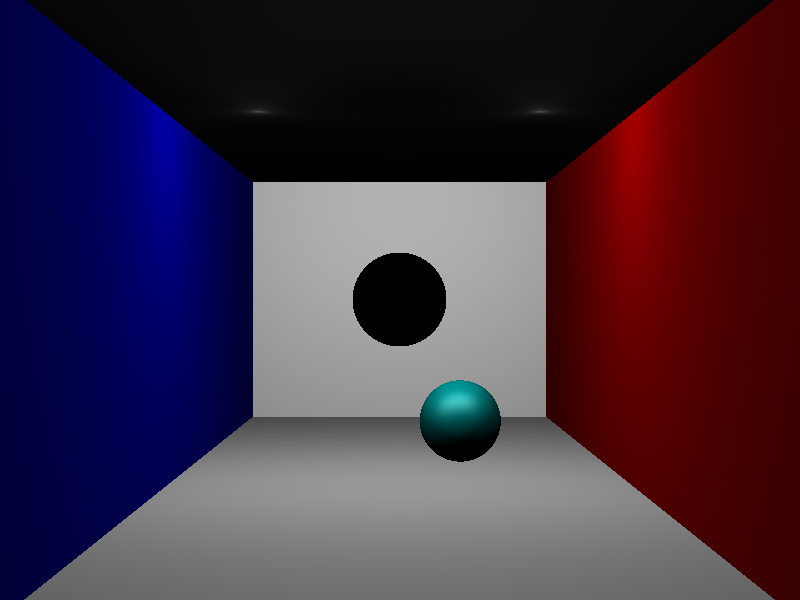
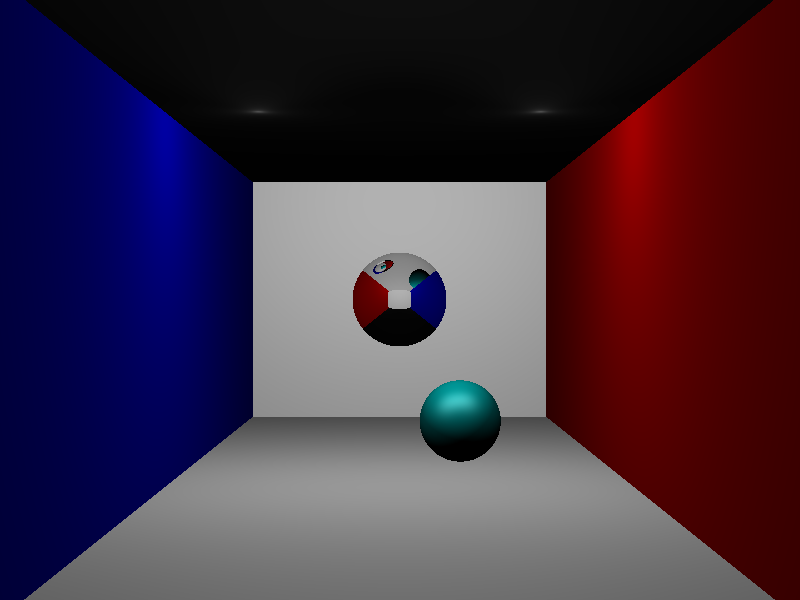
nochmal Refraction

Changed region(s): [[0.4375, 0.42, 0.5625, 0.54]]

diff --git a/VCG_Raytracer/src/raytracer/Raytracer.java b/VCG_Raytracer/src/raytracer/Raytracer.java
@@ -120,9 +120,9 @@ public class Raytracer {
                 shape = intersectLoop(primaryRay);
 
                 if(shape.material.transparent > 0){
-                    Ray refracRay = intersec.calculateRefractionRay((1.0f/1.5f), primaryRay);
+                    Ray refracRay = intersec.calculateRefractionRay((0.8f), primaryRay);
                     shape = intersectLoop(refracRay);
-                    refracRay = intersec.calculateRefractionRay((1.5f/1.0f), refracRay);
+                    refracRay = intersec.calculateRefractionRay((0.9f), refracRay);
                     shape = intersectLoop(refracRay);
                 }
 
